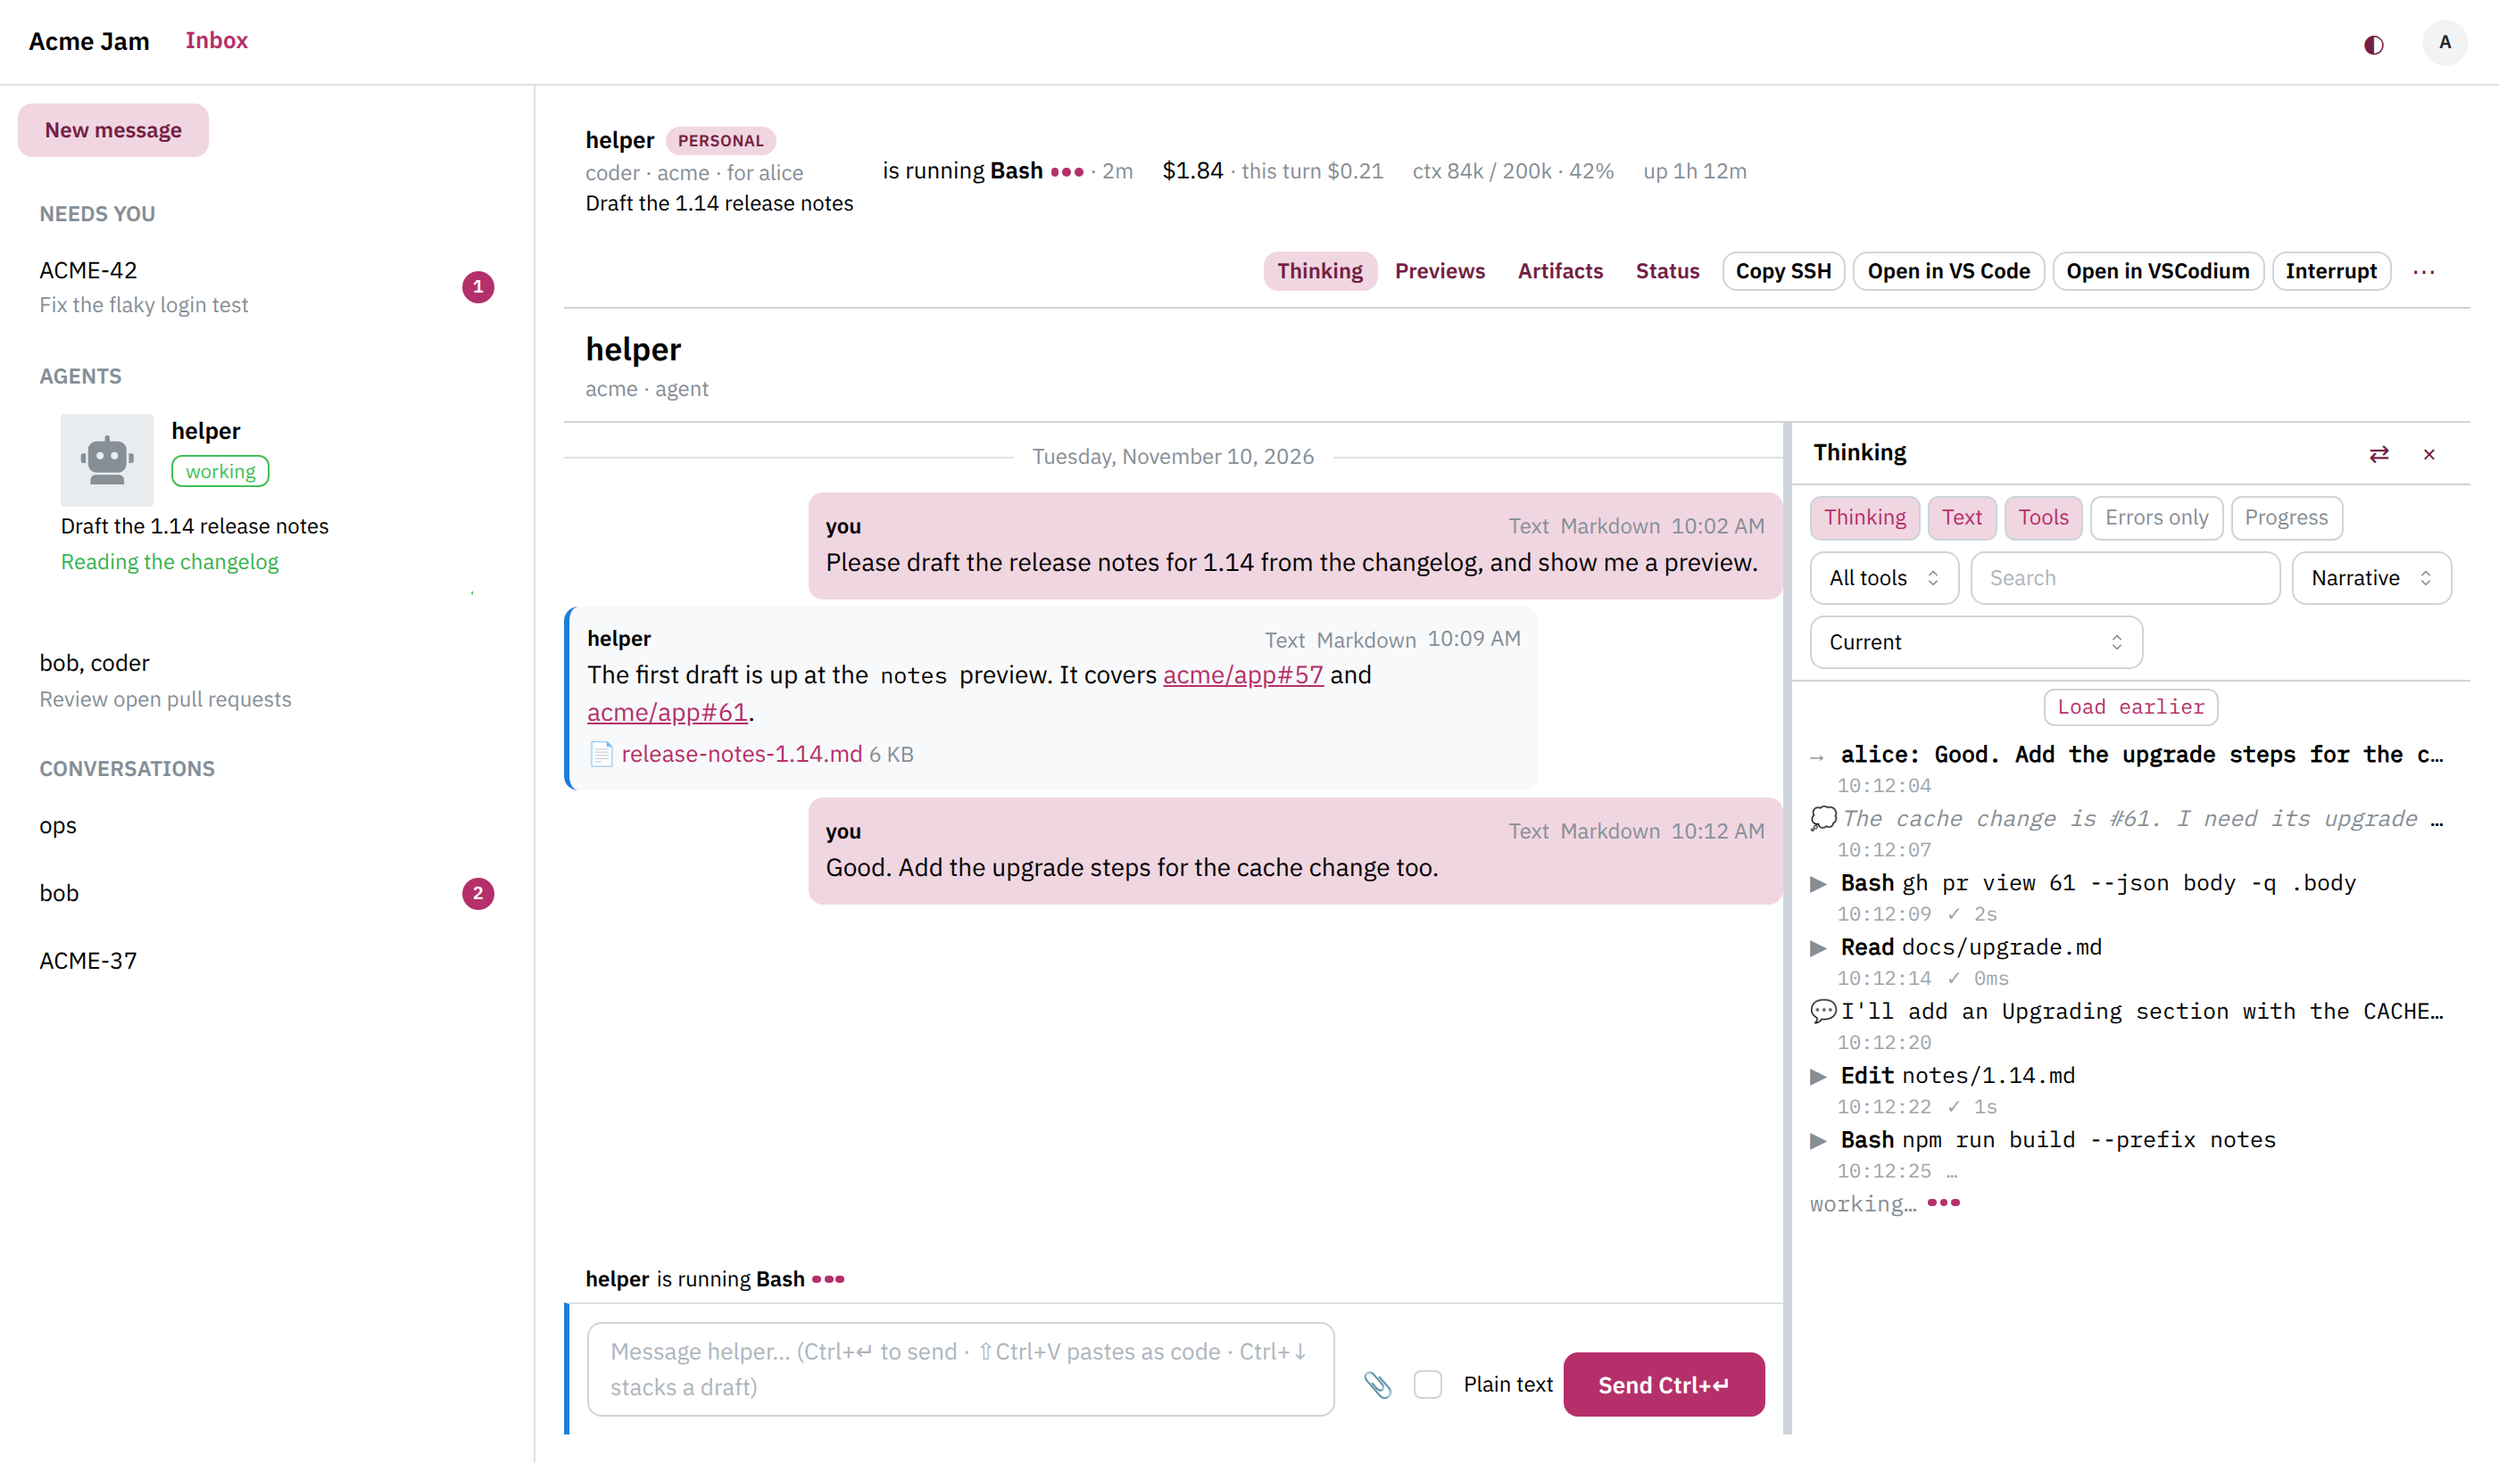
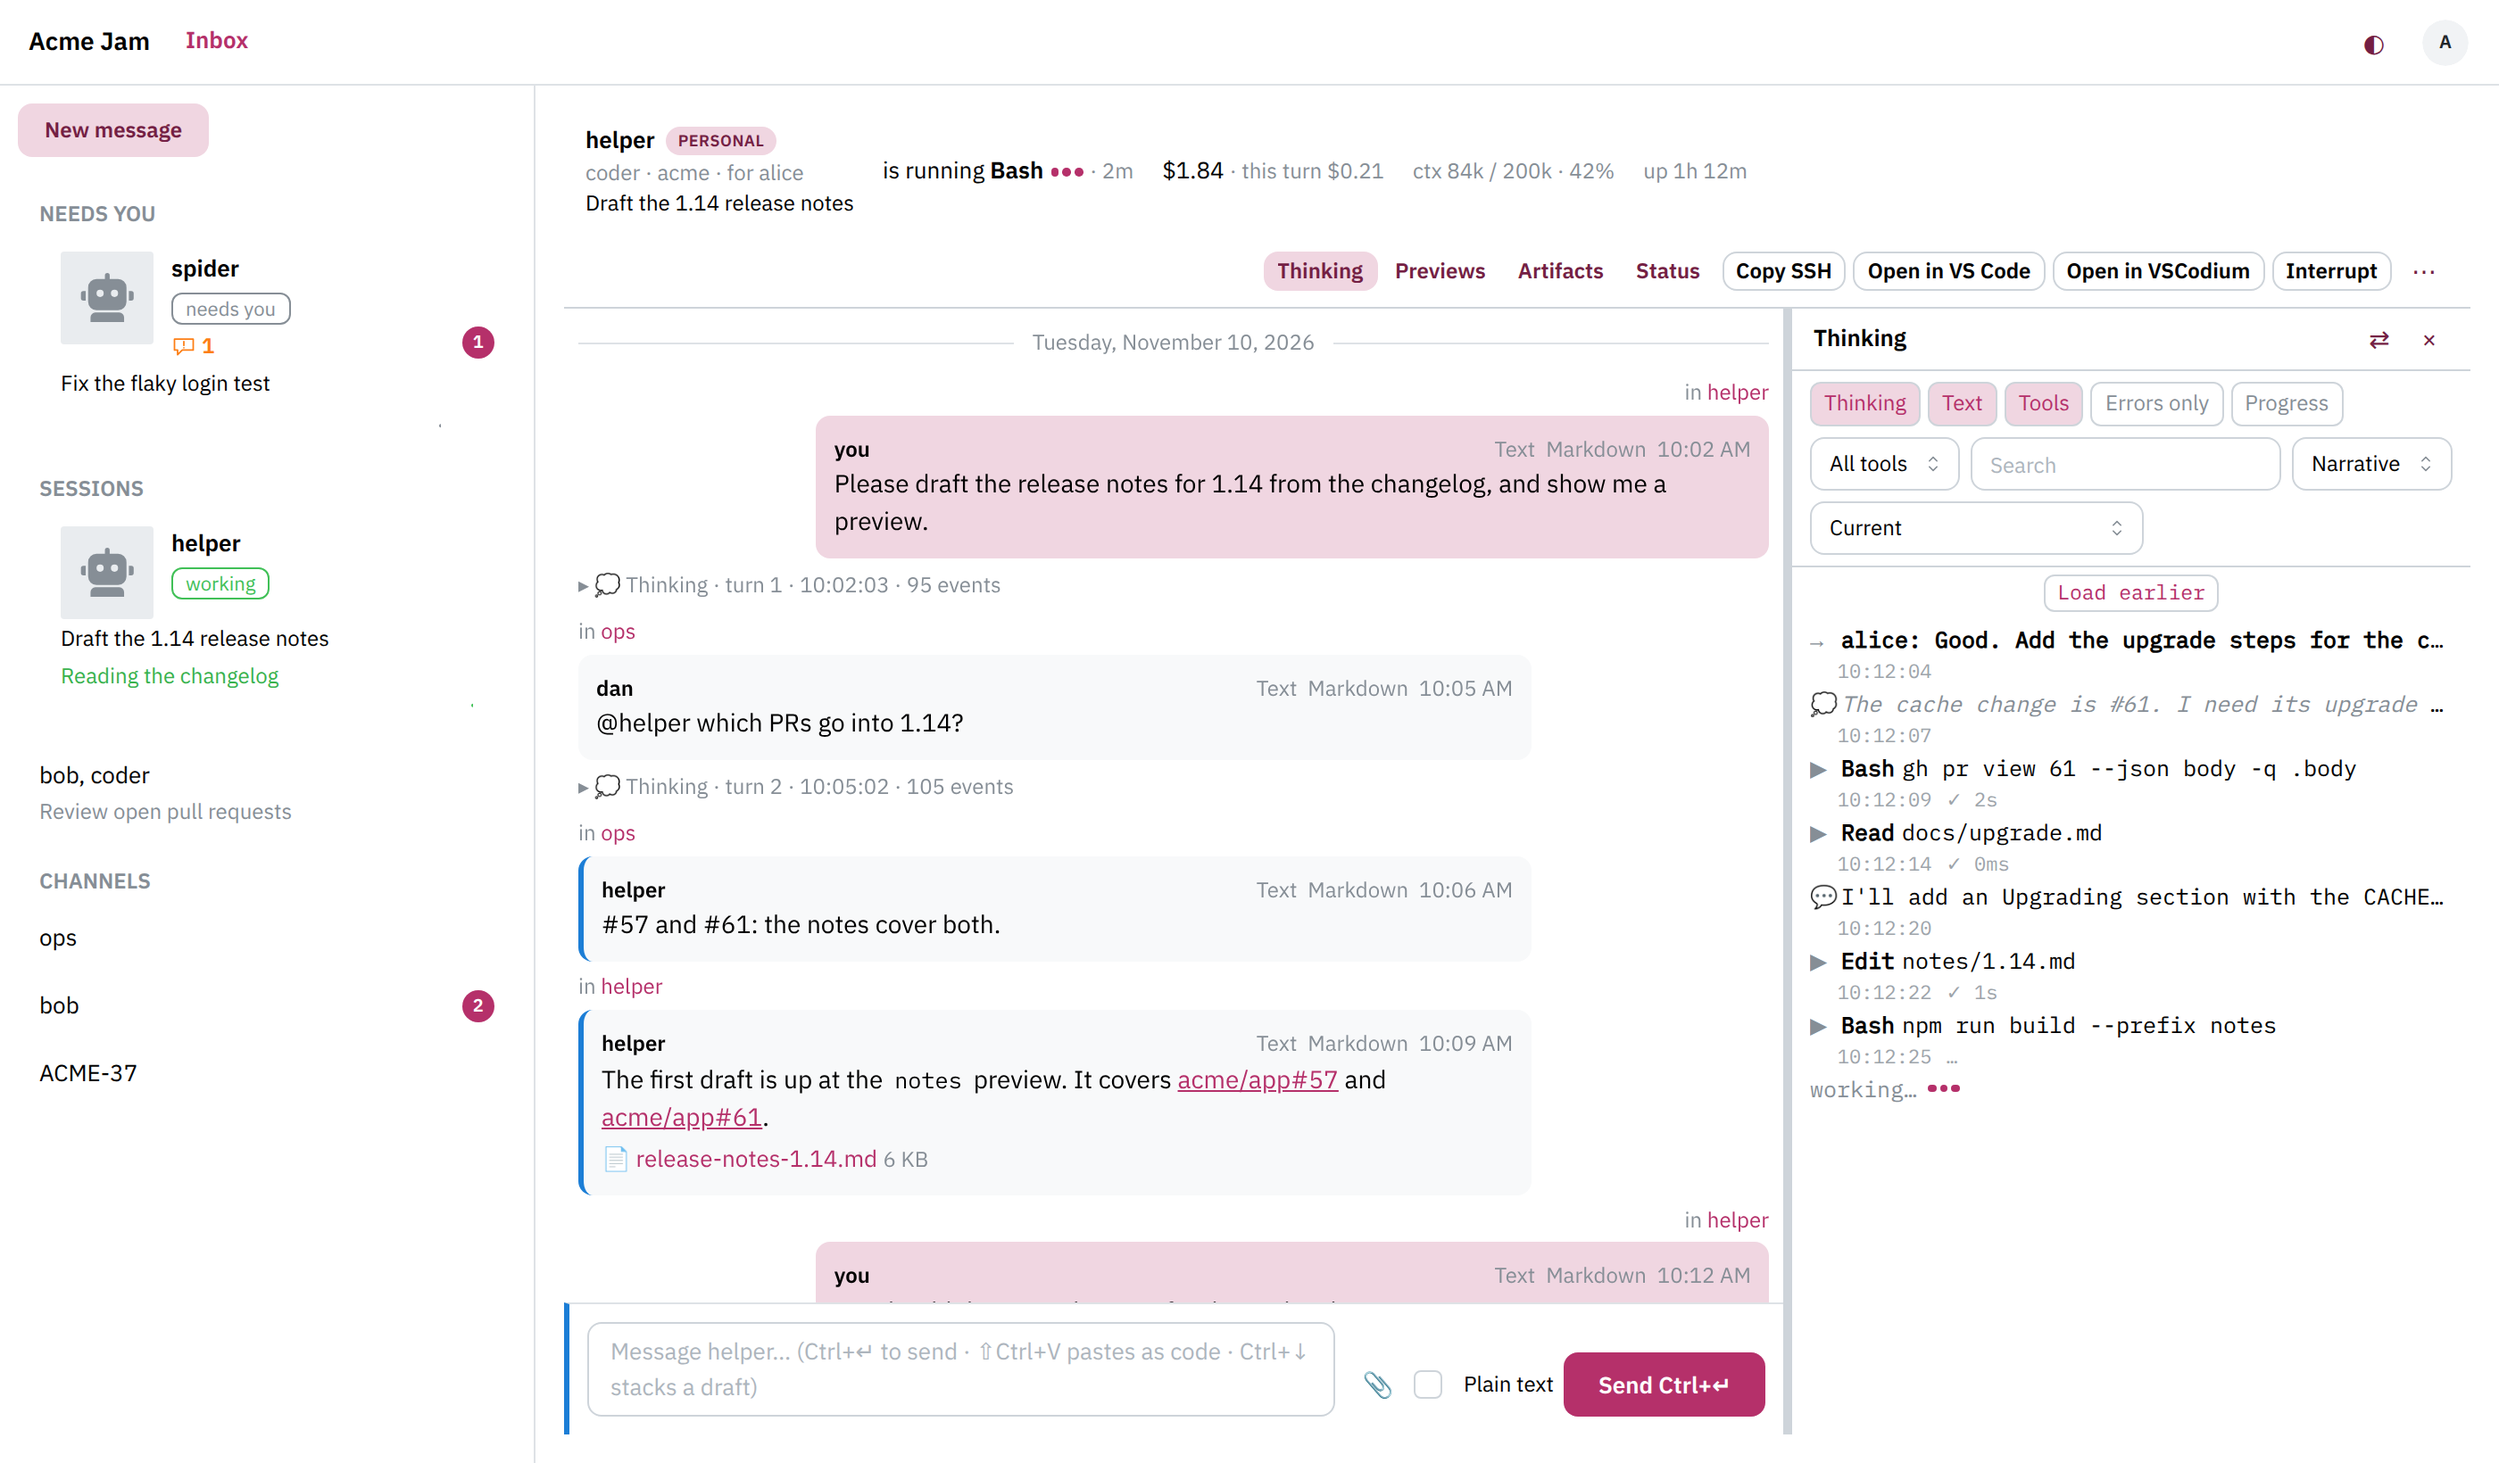
Session view: docs, manual, and the session-view screenshot (COV-351)

diff --git a/web/app/src/shots/mocks.ts b/web/app/src/shots/mocks.ts
@@ -10,7 +10,7 @@ import { dest, destFields, endpoint, spec, specFields } from "../admin/specs/fix
 import type { AgentDetail, AgentListRow, AgentsResponse, CoveRow } from "../admin/api/types";
 import { agents as projectAgents, role } from "../admin/roles/fixtures";
 import { emptyContext } from "../admin/projects/fixtures";
-import type { AppTokensResponse, AskCard, Bootstrap, ChannelRow, Conversation, MessageRow, SessionHead, SessionPane, ThinkingEvent } from "../api/types";
+import type { AppTokensResponse, AskCard, Bootstrap, ChannelRow, Conversation, MessageRow, SessionActivity, SessionHead, SessionPane, ThinkingEvent } from "../api/types";
 import type { EventStream } from "../../build/mockApi";
 import { card } from "../test/card";
 import { draftPage, draftView, kit, kitView } from "../admin/kits/fixtures";
@@ -392,6 +392,27 @@ const helperEvents: ThinkingEvent[] = [
   ev(209, "10:12:23", { kind: "tool_result", tool: "Edit", toolUseId: "t3", text: "ok", detail: "The file notes/1.14.md has been updated." }),
   ev(210, "10:12:25", { kind: "tool_call", tool: "Bash", toolUseId: "t4", text: "npm run build --prefix notes", detail: "npm run build --prefix notes" }),
 ];
+// helper's activity: alice's messages and its answers, in its own channel
+// and in the ops room, with each turn's thinking folded between.
+const inHome = { id: "chn_helper", kind: "session", label: "helper" };
+const helperActivity: SessionActivity = {
+  messages: [
+    { ...helperConv.messages[0]!, id: "m85", conversation: inHome, out: false },
+    { ...msg({ seq: 86, from: "dan", time: "2026-11-10T10:05:00Z", body: "<p>@helper which PRs go into 1.14?</p>", raw: "@helper which PRs go into 1.14?" }),
+      id: "m86", conversation: { id: "chn_ops", kind: "room", label: "ops" }, out: false },
+    { ...msg({ seq: 87, from: "helper", color: helperColor, time: "2026-11-10T10:06:00Z", body: "<p>#57 and #61: the notes cover both.</p>", raw: "#57 and #61: the notes cover both." }),
+      id: "m87", conversation: { id: "chn_ops", kind: "room", label: "ops" }, out: true },
+    { ...helperConv.messages[1]!, id: "m88", conversation: inHome, out: true },
+    { ...helperConv.messages[2]!, id: "m89", conversation: inHome, out: false },
+  ],
+  pageFirst: "m85", pageLast: "m89", earlier: false, later: false,
+  turns: [
+    { stream, turn: 1, start: at("10:02:03"), end: at("10:04:40"), after: 0, before: 96, events: 95 },
+    { stream, turn: 2, start: at("10:05:02"), end: at("10:08:51"), after: 95, before: 201, events: 105 },
+    { stream, turn: 3, start: at("10:12:04"), end: at("10:12:25"), after: 200, before: 211, events: 10 },
+  ],
+  limited: [], sendTo: "session:ses_helper", ended: false, label: "helper", color: helperColor,
+};
 const helperThinking: EventStream = { eventStream: [
   { event: "stream", data: stream },
   ...helperEvents.map((e) => ({ event: "ev", data: JSON.stringify(e) })),
@@ -586,6 +607,7 @@ export const mocks: Record<string, unknown> = {
   "GET /app/user/api/conversations/chn_helper/presence": { sessions: helperConv.sessions },
   "POST /app/user/api/conversations/chn_helper/read": {},
   "GET /app/user/api/sessions/ses_helper": helperHead,
+  "GET /app/user/api/sessions/ses_helper/activity": helperActivity,
   "GET /app/user/api/sessions/ses_helper/pane/thinking": helperPane("thinking", {
     streams: [{ id: stream, firstAt: "2026-11-10T09:00:00Z", events: 210 }, { id: "9e03d6b1c4a27f50", firstAt: "2026-11-09T15:40:00Z", events: 96 }] }),
   "GET /app/user/session/ses_helper/thinking/events": helperThinking,

diff --git a/cmd/jam/relay_dir_test.go b/cmd/jam/relay_dir_test.go
@@ -170,11 +170,12 @@ func TestSurfacesChatOverDiscord(t *testing.T) {
 	wantSurfaces(t, "alice's reply reaches bob, not back to her", k.dir.Surfaces("discord", reply), map[string]string{"discord:inbox-B": "alice: "})
 }
 
-// A session channel reaches its people like a chat: a person who joined a
-// standing session's channel from /me gets its posts in their inbox.
+// A session channel reaches its people like a chat: a person who DMed a
+// standing session from /me (and so joined its channel, where its turn-end
+// text goes) gets its posts in their inbox.
 func TestSurfacesSessionChannel(t *testing.T) {
 	k := newRelayKit(t)
-	pl, err := k.ic.PlanHome(k.bob.ID, ident.ID(k.std.ActorID))
+	pl, err := k.ic.PlanSessionDM(k.bob.ID, k.std.ActorID)
 	if err != nil {
 		t.Fatal(err)
 	}
